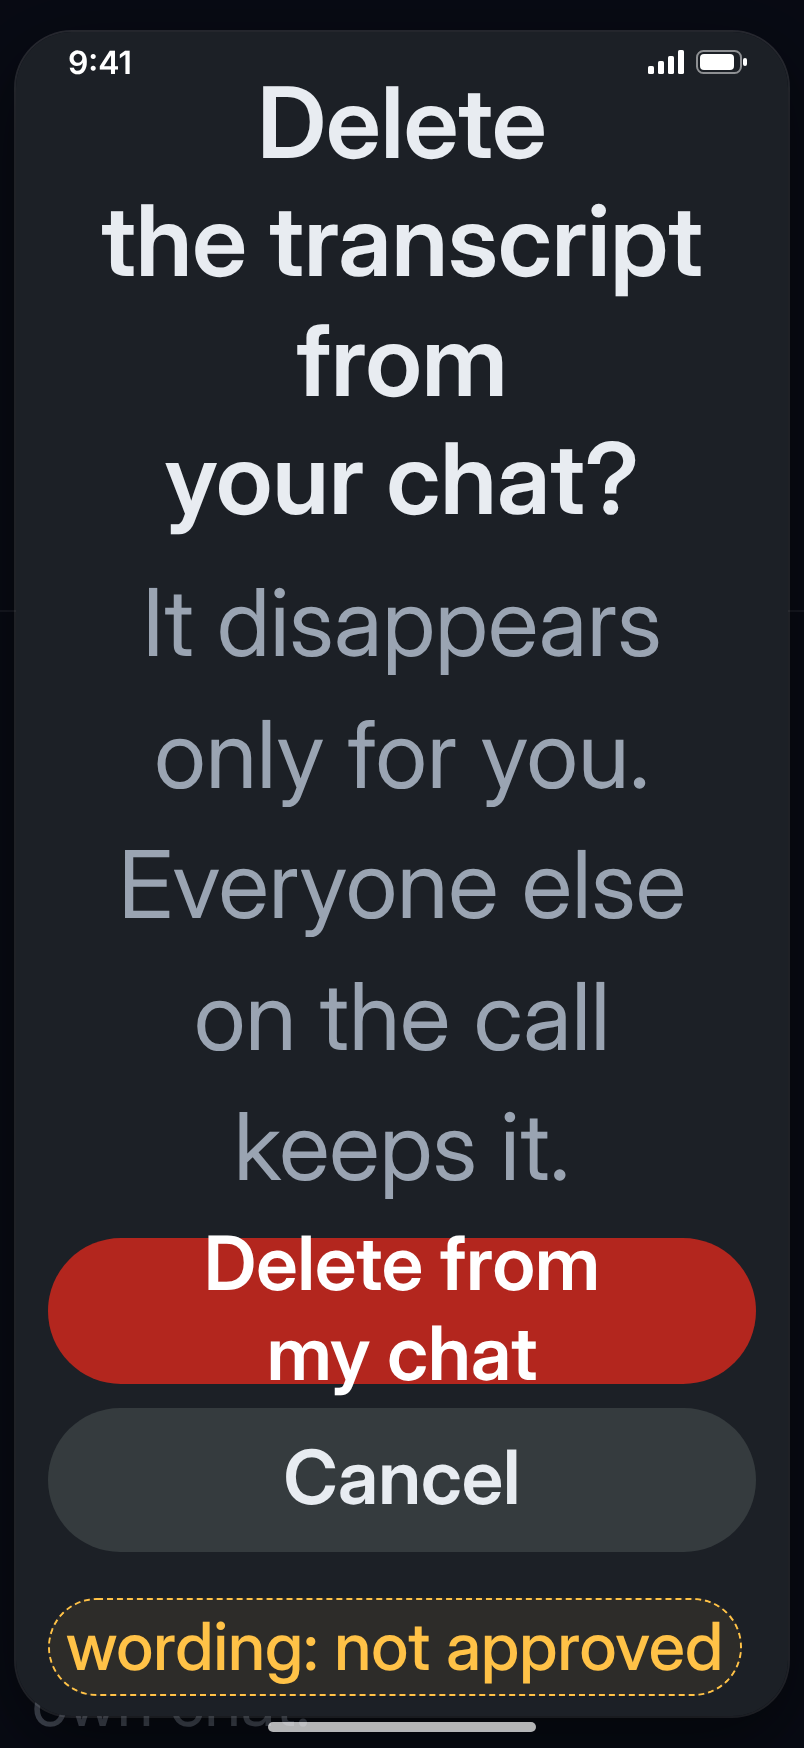
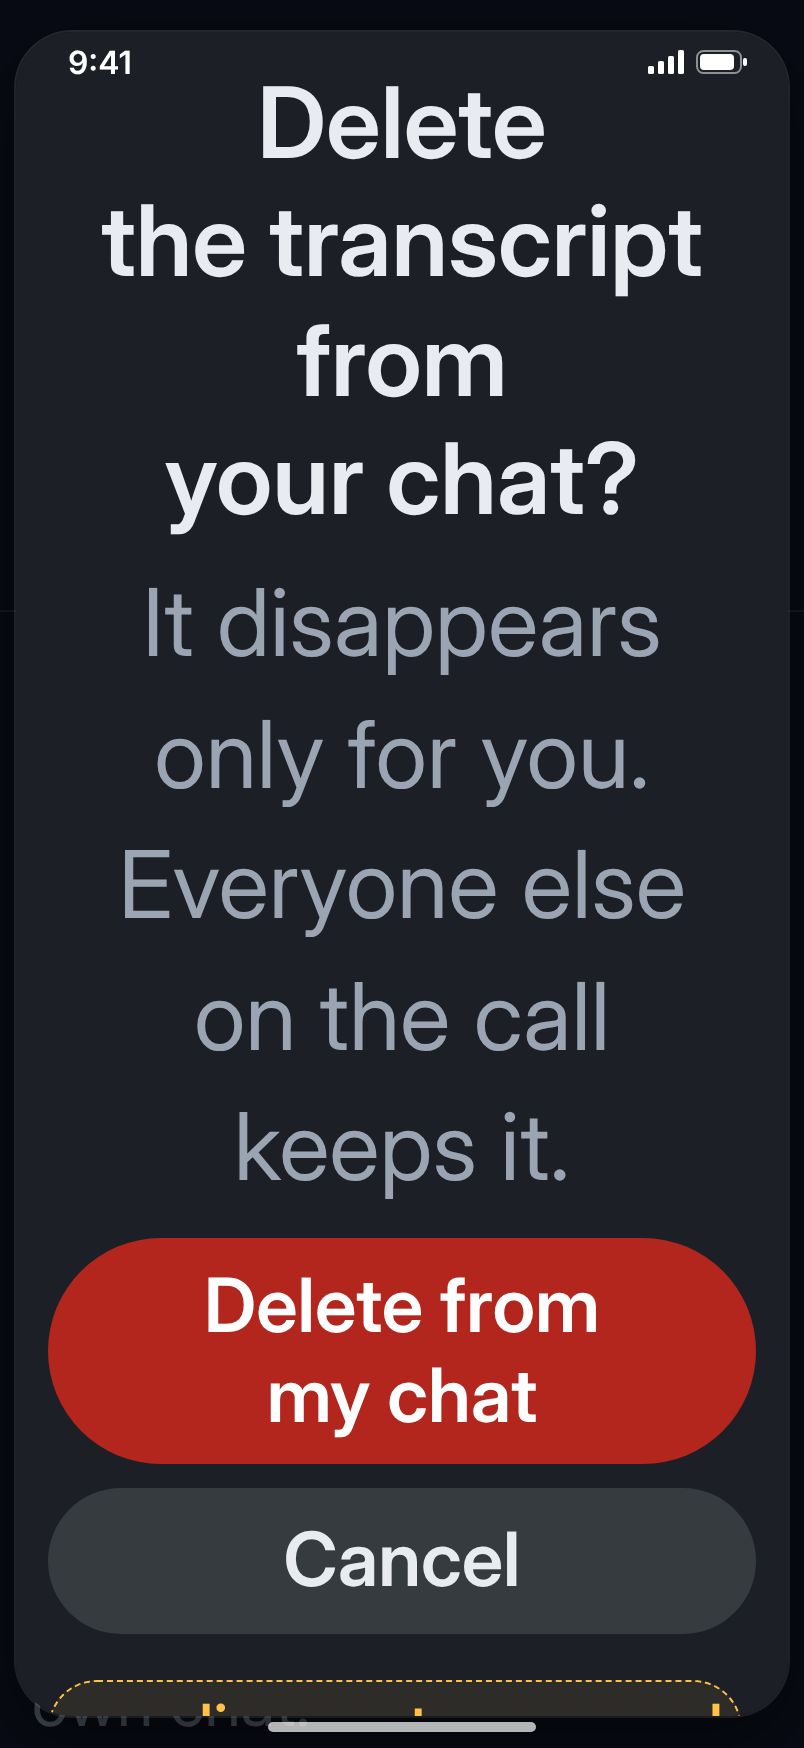
Диалог: содержимое не сжимается — при нехватке высоты диалог прокручивается
Текст длинного диалога при AX5 сжимался по высоте и наезжал на кнопки (видно на chat-delete-alert, call-protocol-delete, memory-off и др.). Теперь .pc-alert>* {flex-shrink:0}: диалог прокручивается, как в iOS при крупном шрифте. PNG: 25.

Claude-Session: https://claude.ai/code/session_01XzoWkW25V1nW2Qv4cEPq3n

Changed region(s): [[0.0622, 0.7105, 0.9639, 0.9886], [0.8396, 0.7105, 0.9328, 0.7414]]

diff --git a/components.css b/components.css
@@ -507,6 +507,8 @@ svg.ic{width:1em;height:1em;fill:none;stroke:currentColor;stroke-width:2;stroke-
 .pc-protofull .pc-callbar .pc-rec{flex:1 1 100%;justify-content:flex-start}
 /* диалог на Duo в полураскрытом виде — в одной из половин, не через сгиб (допущение, сверить в Xcode / Device Hub) */
 .pc-alert[data-pose=hp]{top:503.5px;transform:translateX(-50%);max-height:calc(100% - 503.5px - 42px)}
+/* содержимое диалога не сжимается: если не влезает по высоте, диалог прокручивается (а не наезжает текст на кнопки) */
+.pc-alert>*{flex-shrink:0}
 .pc-alert[data-pose=hl]{left:511.5px;transform:translateY(-50%);width:340px;max-height:calc(100% - 32px)}
 
 .pc-frame.full .pc-app[data-view=detail] .pc-pane--detail{flex:1 1 0;width:100%;min-width:0}
